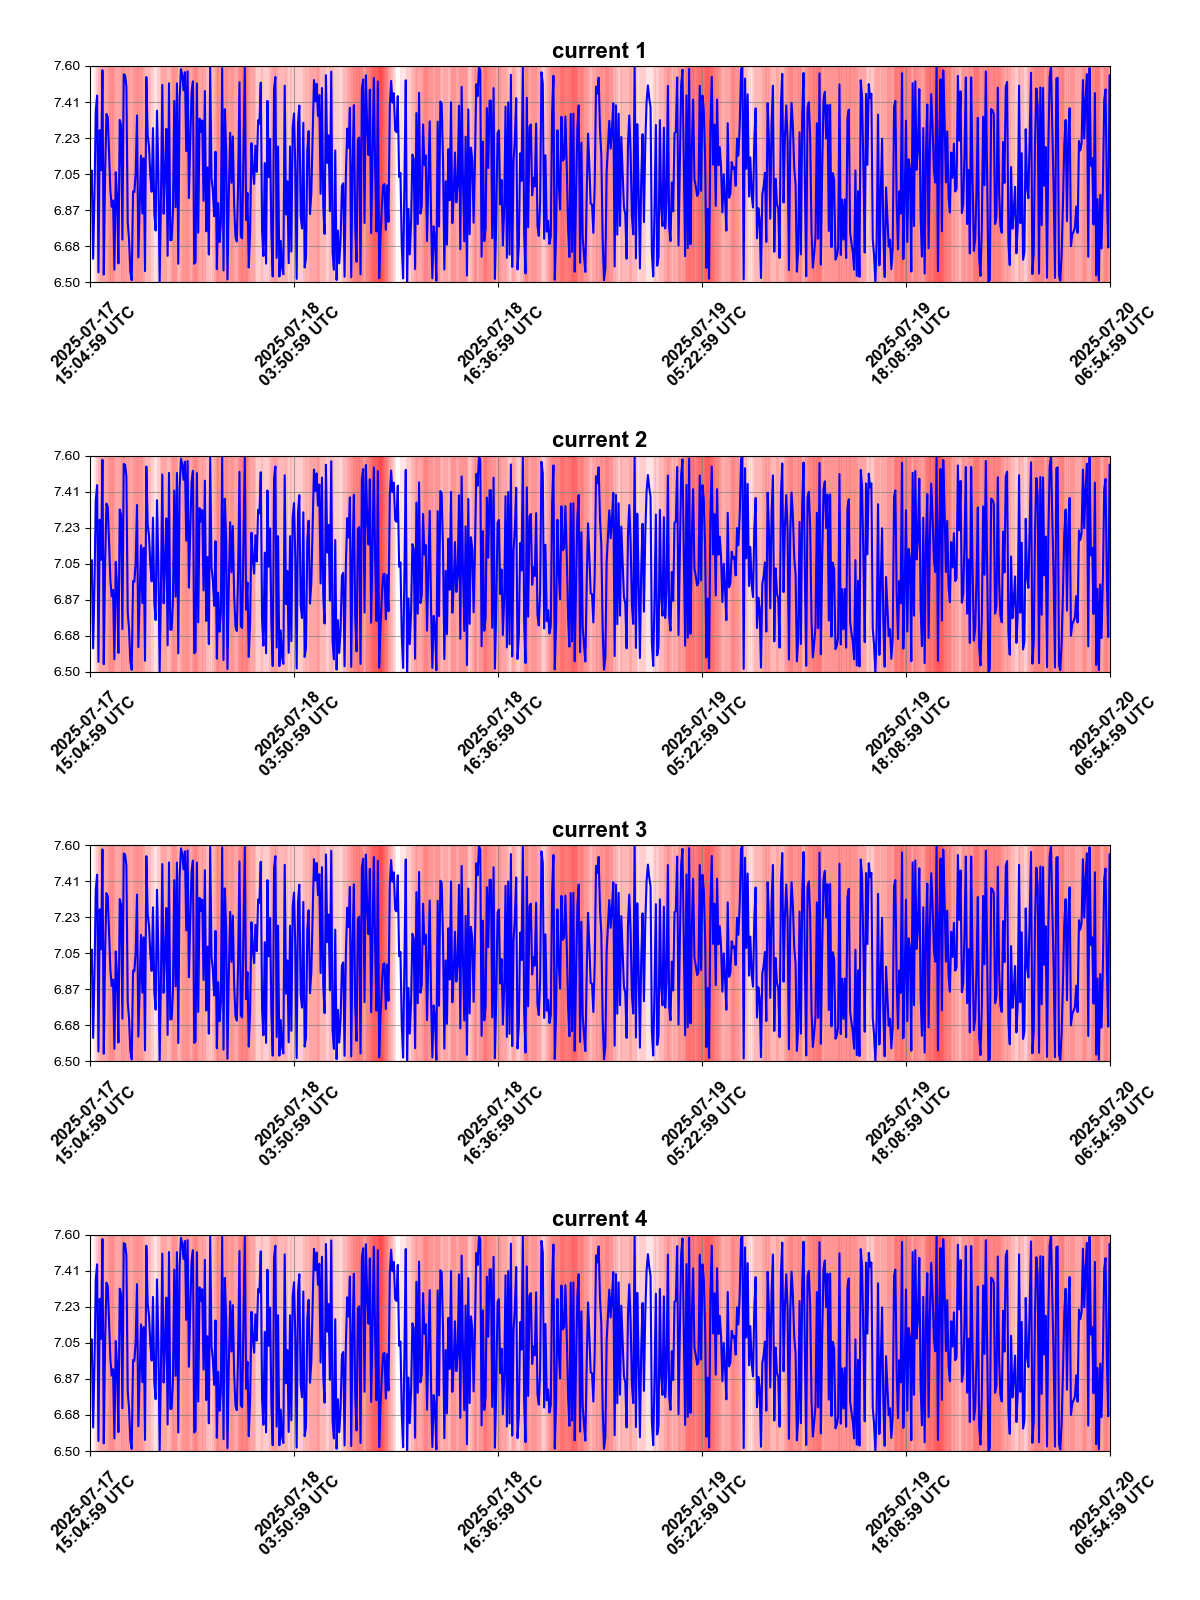
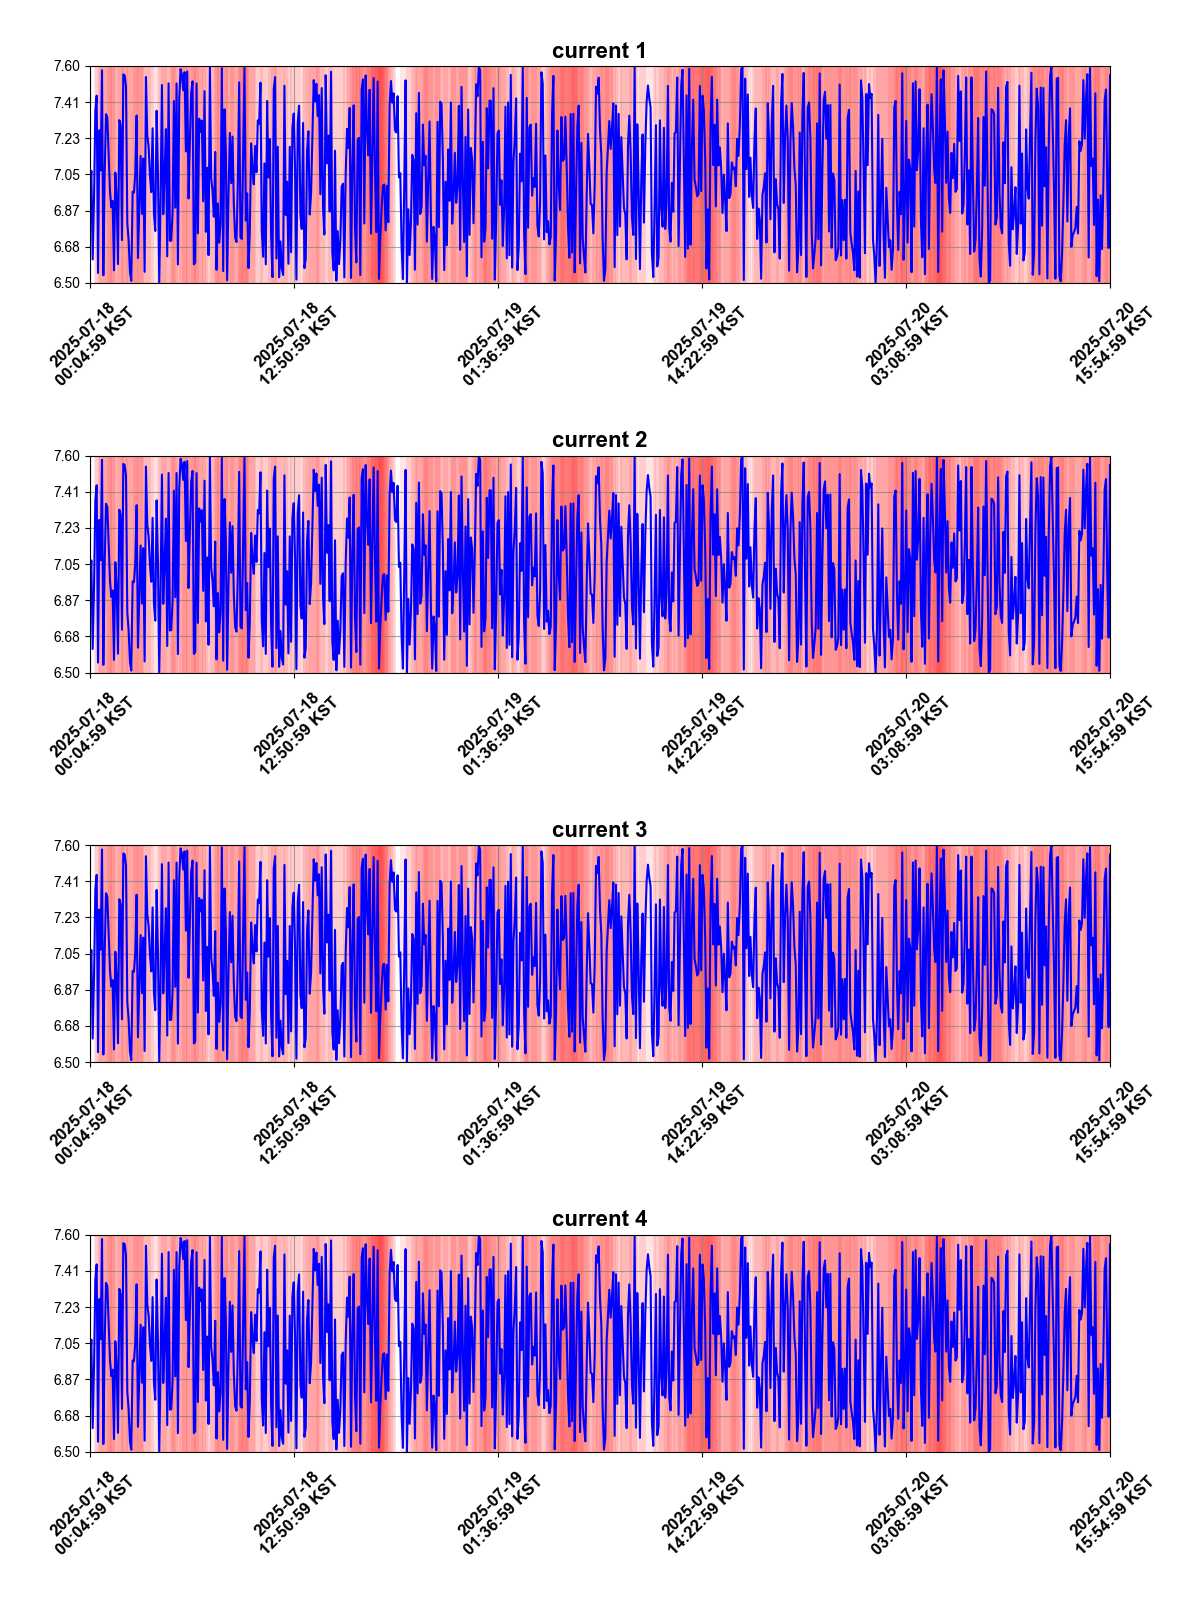
matplotlib 'timezone' 을 'Asia/Seoul' 로 설정함

diff --git a/chart_atlas_ecas_multi_04.py b/chart_atlas_ecas_multi_04.py
@@ -1,0 +1,91 @@
+import pandas as pd
+import matplotlib.pyplot as plt
+import matplotlib.dates as mdates
+import matplotlib.ticker as ticker
+import matplotlib.patches as patches
+import json
+import numpy as np
+
+# matplotlib의 기본 시간대를 'Asia/Seoul'로 설정
+plt.rcParams['timezone'] = 'Asia/Seoul'
+
+# Load the data
+file_name = 'mock_data.json'
+with open(file_name, 'r') as f:
+    data = json.load(f)
+
+# --- Data Preparation ---
+# Create a DataFrame for the line chart
+df = pd.DataFrame({'timestamp_ms': data['t'], 'value': data['v']})
+# Convert to KST
+df['datetime'] = pd.to_datetime(df['timestamp_ms'], unit='ms').dt.tz_localize('UTC').dt.tz_convert('Asia/Seoul')
+
+# Alarm data to KST
+alarm_datetimes_series = pd.Series(data['a'])
+alarm_datetimes = pd.to_datetime(alarm_datetimes_series, unit='ms').dt.tz_localize('UTC').dt.tz_convert('Asia/Seoul')
+
+# --- Chart Generation ---
+# Create 4x1 subplots. The height is changed from 24 to 16 (2/3 of the original).
+fig, axes = plt.subplots(4, 1, figsize=(12, 16))
+plt.style.use('seaborn-v0_8') # Seaborn 스타일 적용
+# plt.style.use('seaborn')
+
+# Loop through each subplot to draw the chart
+for i, ax in enumerate(axes):
+    # Set background color
+    ax.set_facecolor('white')
+
+    # --- Data Plotting ---
+    ax.plot(df['datetime'], df['value'], color='blue', linewidth=1.5, zorder=2)
+
+    # --- Axis Configuration ---
+    min_dt = df['datetime'].min()
+    max_dt = df['datetime'].max()
+    ax.set_xlim(min_dt, max_dt)
+    min_y, max_y = df['value'].min(), df['value'].max()
+    ax.set_ylim(min_y, max_y)
+
+    # --- X-Axis Tick Locator ---
+    min_num = mdates.date2num(min_dt)
+    max_num = mdates.date2num(max_dt)
+    x_tick_nums = np.linspace(min_num, max_num, 6)
+    ax.xaxis.set_major_locator(ticker.FixedLocator(x_tick_nums))
+
+    # Y-axis ticks
+    y_ticks = np.linspace(float(min_y), float(max_y), 7)
+    ax.yaxis.set_major_locator(ticker.FixedLocator(y_ticks))
+    ax.yaxis.set_major_formatter(ticker.FormatStrFormatter('%.2f'))
+    ax.tick_params(axis='y', colors='black')
+
+    # --- Add Alarm Rectangles ---
+    rect_width_days = (max_num - min_num) / 60.0
+    rect_height = max_y - min_y
+    for alarm_dt in alarm_datetimes:
+        if min_dt <= alarm_dt <= max_dt:
+            rect = patches.Rectangle(
+                (mdates.date2num(alarm_dt), min_y),
+                rect_width_days, rect_height,
+                facecolor='red', alpha=0.1, edgecolor='none', zorder=1
+            )
+            ax.add_patch(rect)
+
+    # --- Styling and Labels ---
+    ax.grid(True, linestyle='-', alpha=0.7, color='grey')
+    ax.set_title(f'current {i+1}', fontsize=16, fontweight='bold')
+    ax.set_xlabel('')
+    ax.set_ylabel('')
+
+    # Configure x-axis labels for each subplot
+    ax.xaxis.set_major_formatter(mdates.DateFormatter('%Y-%m-%d\n%H:%M:%S %Z'))
+    plt.setp(ax.get_xticklabels(), rotation=45, ha='center', fontsize=12, fontweight='bold')
+
+# Adjust the overall layout
+fig.tight_layout(pad=3.0)
+fig.patch.set_facecolor('white')
+
+# Save the final image
+image_path = 'line_chart_4x1_resized.png'
+plt.savefig(image_path)
+plt.close()
+
+print(f"높이가 조절된 4x1 차트가 '{image_path}'로 저장되었습니다.")
